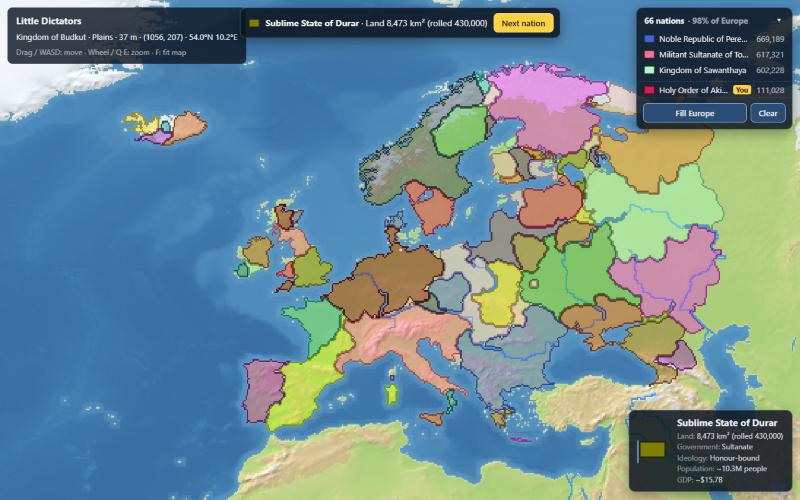
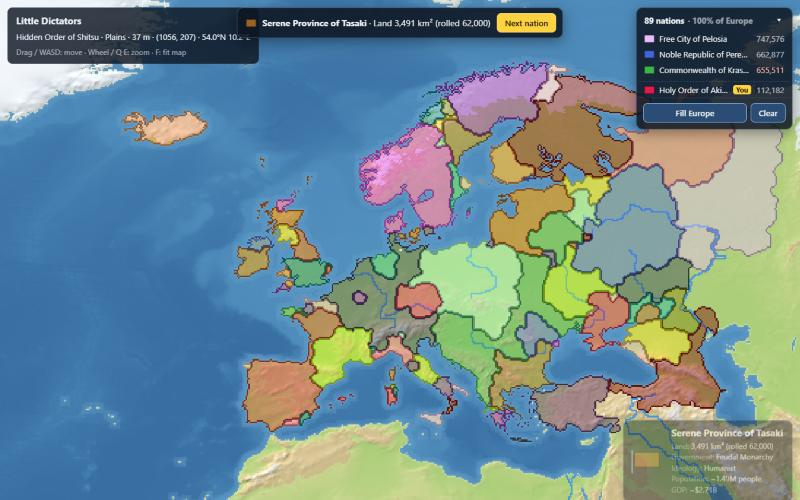
Fill Europe completely: leftover land goes to the nearest nations
After a 100% fill, nations spread up to fill.absorbSteps (10) pixels at a time
into the leftover land (small islands, slivers between borders), crossing water
to reach islands, in rounds; a last unlimited pass gives far islands to the
nearest nation. Every land pixel in Europe ends up owned.

Also fixes a double count: a pixel trimmed as a 1-pixel string and then
refilled as a hole was listed twice, inflating the nation's area.

diff --git a/src/game/territory.ts b/src/game/territory.ts
@@ -48,6 +48,8 @@ export interface FillRules {
   /** …or after this many nations or tries. */
   maxNations: number;
   maxAttempts: number;
+  /** At the end of a 100% fill, nations spread up to this many pixels into the leftover land and islands. */
+  absorbSteps: number;
 }
 
 export interface PlacementData {
@@ -263,6 +265,74 @@ export class Territory {
     return holding;
   }
 
+  /**
+   * Gives the region's leftover free land (small islands, slivers between borders) to the
+   * nearest nation: every nation spreads out at most `maxSteps` pixels into free land, and
+   * across water to islands, one ring at a time, so the closest nation gets each pixel.
+   * Returns the pixels each nation gained (by id). Repeatable: no randomness.
+   */
+  absorbLeftovers(region: Region, maxSteps: number): Map<number, number[]> {
+    const gained = new Map<number, number[]>();
+    if (!this.holdings.length || maxSteps <= 0) return gained;
+    const { width, height, terrain } = this.map;
+    // Work in the region's box plus a margin, so nations just outside it can reach in too.
+    const x0 = Math.max(0, region.box.x0 - maxSteps);
+    const y0 = Math.max(0, region.box.y0 - maxSteps);
+    const x1 = Math.min(width - 1, region.box.x1 + maxSteps);
+    const y1 = Math.min(height - 1, region.box.y1 + maxSteps);
+    const bw = x1 - x0 + 1;
+    const bh = y1 - y0 + 1;
+    const steps = new Int16Array(bw * bh).fill(-1);
+    const from = new Uint16Array(bw * bh);
+    const queue = new Int32Array(bw * bh);
+    let head = 0;
+    let tail = 0;
+    for (let y = y0; y <= y1; y++) {
+      for (let x = x0; x <= x1; x++) {
+        const id = this.owner[y * width + x];
+        if (id === 0) continue;
+        const b = (y - y0) * bw + (x - x0);
+        steps[b] = 0;
+        from[b] = id;
+        queue[tail++] = b;
+      }
+    }
+    while (head < tail) {
+      const b = queue[head++];
+      if (steps[b] >= maxSteps) continue;
+      const bx = b % bw;
+      const by = (b - bx) / bw;
+      for (const [dx, dy] of SIDES) {
+        const nx = bx + dx;
+        const ny = by + dy;
+        if (nx < 0 || ny < 0 || nx >= bw || ny >= bh) continue;
+        const c = ny * bw + nx;
+        if (steps[c] >= 0) continue;
+        const i = (ny + y0) * width + (nx + x0);
+        if (this.owner[i] !== 0) continue;
+        // Free land and water are both crossed (water to reach islands); only free land in the region is taken.
+        steps[c] = steps[b] + 1;
+        from[c] = from[b];
+        queue[tail++] = c;
+        if (region.inside[i] && this.cost[terrain[i]] < Infinity) {
+          this.owner[i] = from[b];
+          const list = gained.get(from[b]) ?? [];
+          list.push(i);
+          gained.set(from[b], list);
+        }
+      }
+    }
+    for (const [id, list] of gained) {
+      const h = this.holding(id)!;
+      const pixels = new Int32Array(h.pixels.length + list.length);
+      pixels.set(h.pixels);
+      pixels.set(list, h.pixels.length);
+      h.pixels = pixels;
+      for (const i of list) h.area += this.areas[(i / width) | 0];
+    }
+    return gained;
+  }
+
   /** Removes every nation. */
   clear(): void {
     this.owner.fill(0);
@@ -419,7 +489,9 @@ export class Territory {
       }
     }
     const extra = this.tidy(id, sx, sy, taken, targetArea);
-    const pixels = taken.filter((i) => owner[i] === id).concat(extra);
+    // A trimmed pixel can come back as part of a filled hole, so leave those out of `taken`.
+    const refilled = new Set(extra);
+    const pixels = taken.filter((i) => owner[i] === id && !refilled.has(i)).concat(extra);
     let total = 0;
     for (const i of pixels) total += areas[(i / width) | 0];
     return { pixels: Int32Array.from(pixels), area: total };

diff --git a/src/ui/placement.ts b/src/ui/placement.ts
@@ -254,7 +254,7 @@ export class Placement {
   private fill(): void {
     if (this.state === "wheel") return;
     this.finishGrowth();
-    const { percent, minArea, maxNations, maxAttempts } = this.opts.data.fill;
+    const { percent, minArea, maxNations, maxAttempts, absorbSteps } = this.opts.data.fill;
     const { coastPreference } = this.opts.data.start;
     const started = performance.now();
     let full = false;
@@ -274,6 +274,17 @@ export class Placement {
     for (let tries = 0; !full && tries < maxAttempts && this.nations.length < maxNations; tries++) {
       if (this.territory.ownedShare(this.region) * 100 >= percent) break;
       placeAnywhere({ nation: rollNation(this.opts.wheels, this.opts.mapName, createRng(this.nextSeed())), color: "" });
+    }
+    // A full fill ends with the leftovers (small islands, slivers between borders) going to the
+    // nearest nations, so the whole region is owned when the game starts.
+    // Rounds of `absorbSteps` pixels each while that still takes land, then one last pass with
+    // no limit for far-off islands (e.g. Jan Mayen), which go to the nearest nation.
+    if (percent >= 100) {
+      for (let round = 0; round <= 10; round++) {
+        const gained = this.territory.absorbLeftovers(this.region, round < 10 ? absorbSteps : 30000);
+        for (const [, pixels] of gained) this.layer.reveal(pixels);
+        if (!gained.size && round < 10) round = 9; // nothing more nearby: go to the last pass
+      }
     }
     if (import.meta.env.DEV) {
       const share = Math.round(this.territory.ownedShare(this.region) * 100);

diff --git a/README.md b/README.md
@@ -155,7 +155,7 @@ server only):
 
 ## Placing nations (Europe test)
 
-![Europe filled with 66 nations (98% of its land)](docs/europe-filled.jpg)
+![Europe filled with 89 nations (all of its land)](docs/europe-filled.jpg)
 
 After **Continue to map** the camera flies to Europe and asks where the nation goes. The
 nation card and the corner panel show its **colour**, which is its flag for now.
@@ -170,14 +170,17 @@ nation card and the corner panel show its **colour**, which is its flag for now.
 - The land then **grows out from that spot** in a second or two. Only the rolled land size
   matters for now (a golden "Double land" simply means more land).
 - **Next nation** goes back to the wheel for another one. The list in the top-right corner
-  shows the **top 3 nations by land plus yours** (marked "You"), under e.g. "66 nations ·
-  98% of Europe". The arrow opens the full list (biggest first, it scrolls) and closes it
+  shows the **top 3 nations by land plus yours** (marked "You"), under e.g. "89 nations ·
+  100% of Europe". The arrow opens the full list (biggest first, it scrolls) and closes it
   again; it remembers your choice. Click a row, or a nation on the map, to see it in the
   corner panel. Hovering the map shows who owns the land.
 - **Fill Europe** (a testing shortcut) rolls and places nations until **no gap is left with
-  room for another nation** (98–99% of the land, usually 65–100 nations, a patchwork like
-  the real 1500, in under half a second). Coasts and riverbanks fill first, then the
-  inland gaps; the late nations are squeezed in and end up smaller than they rolled. Fill picks colours so
+  room for another nation** (usually 65–100 nations, a patchwork like the real 1500, in
+  about half a second). Coasts and riverbanks fill first, then the inland gaps; the late
+  nations are squeezed in and end up smaller than they rolled. Then the **leftover bits**
+  (small islands, slivers between borders) go to the nearest nations, which spread up to
+  10 pixels at a time into them (across water to reach islands), so **all of Europe is
+  owned** when the game starts. Fill picks colours so
   that nations that touch never share one (with 60+ nations, colours repeat elsewhere).
   **Clear** removes them all.
 
@@ -198,7 +201,8 @@ Tune it in **`public/data/placement.json`**: the region's outline (longitude/lat
 points), how often random starts pick a coast or riverbank (`start.coastPreference`), how
 much of the land **Fill** covers (`fill.percent`; 100 = until no gap has room for
 `fill.minArea` km², plus caps on nations and tries), the cost of each terrain, the wobble,
-the biggest hole that gets filled (`holeSize`), and the colour list.
+the biggest hole that gets filled (`holeSize`), how far nations spread into the leftovers
+per round (`fill.absorbSteps`), and the colour list.
 
 ## Controls
 

diff --git a/CHANGELOG.md b/CHANGELOG.md
@@ -11,10 +11,12 @@ English. Add your entry under **Unreleased** in the same pull request as the cha
   shape instead of snaking out in every direction. The inland gaps left between them are
   filled by later nations. After growing, 1-pixel strings are trimmed and tiny holes
   inside a nation are filled. (Clicking by hand can still start a nation anywhere.)
-- **Fill Europe now fills Europe** (about 98–99% of its land, 65–100 nations) instead of
-  stopping at 90%: it keeps going until no gap is left with room for another nation.
+- **Fill Europe now fills all of Europe** (65–100 nations) instead of stopping at 90%: it
+  keeps going until no gap is left with room for another nation, then the leftover bits
+  (small islands, slivers between borders) go to the nearest nations, which spread up to
+  10 pixels at a time into them. Every piece of land in Europe is owned when it's done.
 - **The nation list is short by default**: the top 3 nations by land plus yours (marked
-  "You"), under "66 nations · 98% of Europe". The arrow opens the full list (biggest
+  "You"), under "89 nations · 100% of Europe". The arrow opens the full list (biggest
   first) and closes it again; it remembers which you chose.
 
 ### Fixed
